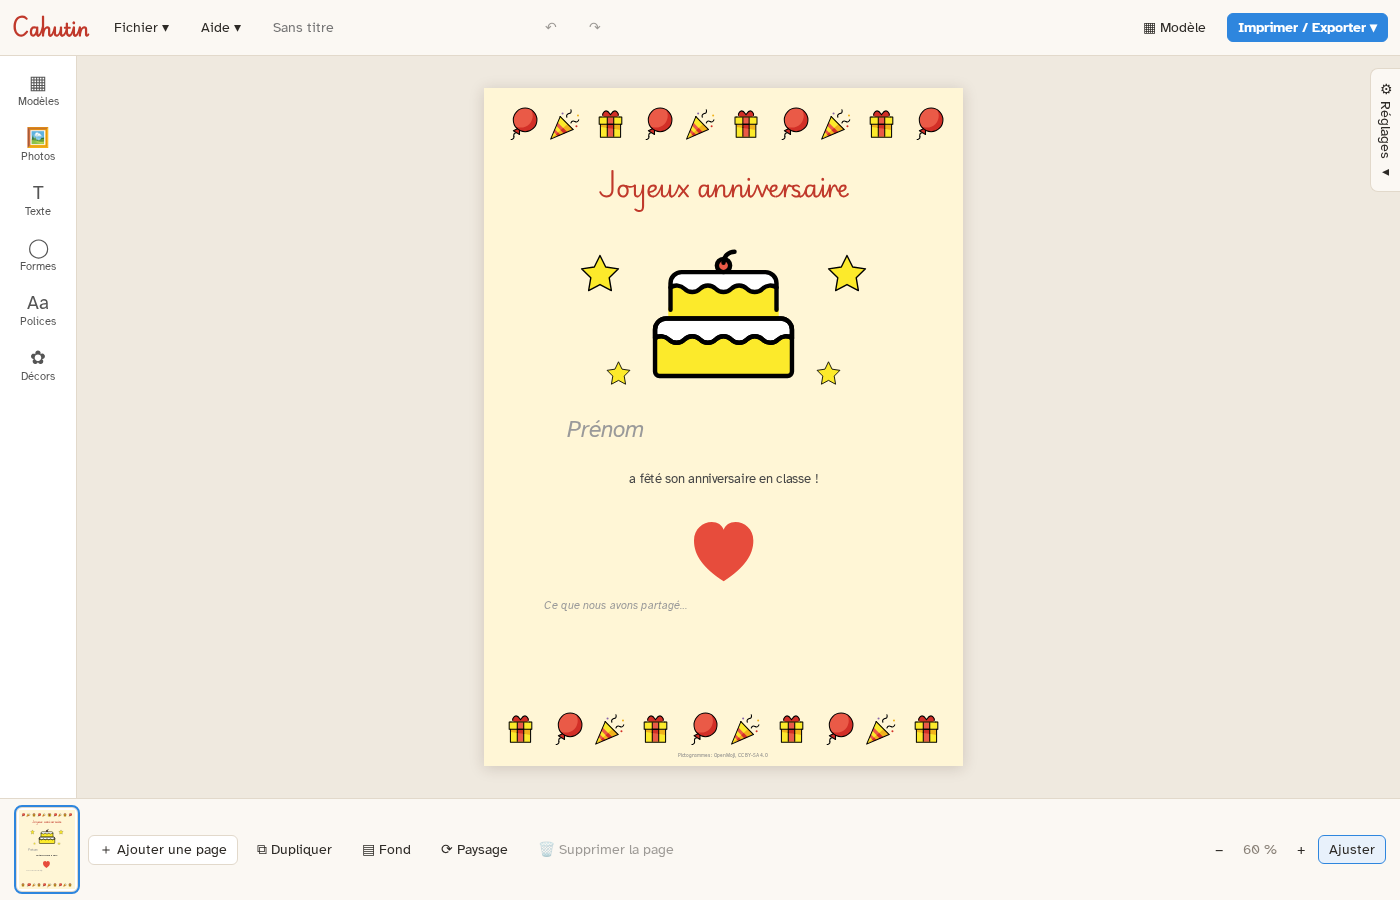
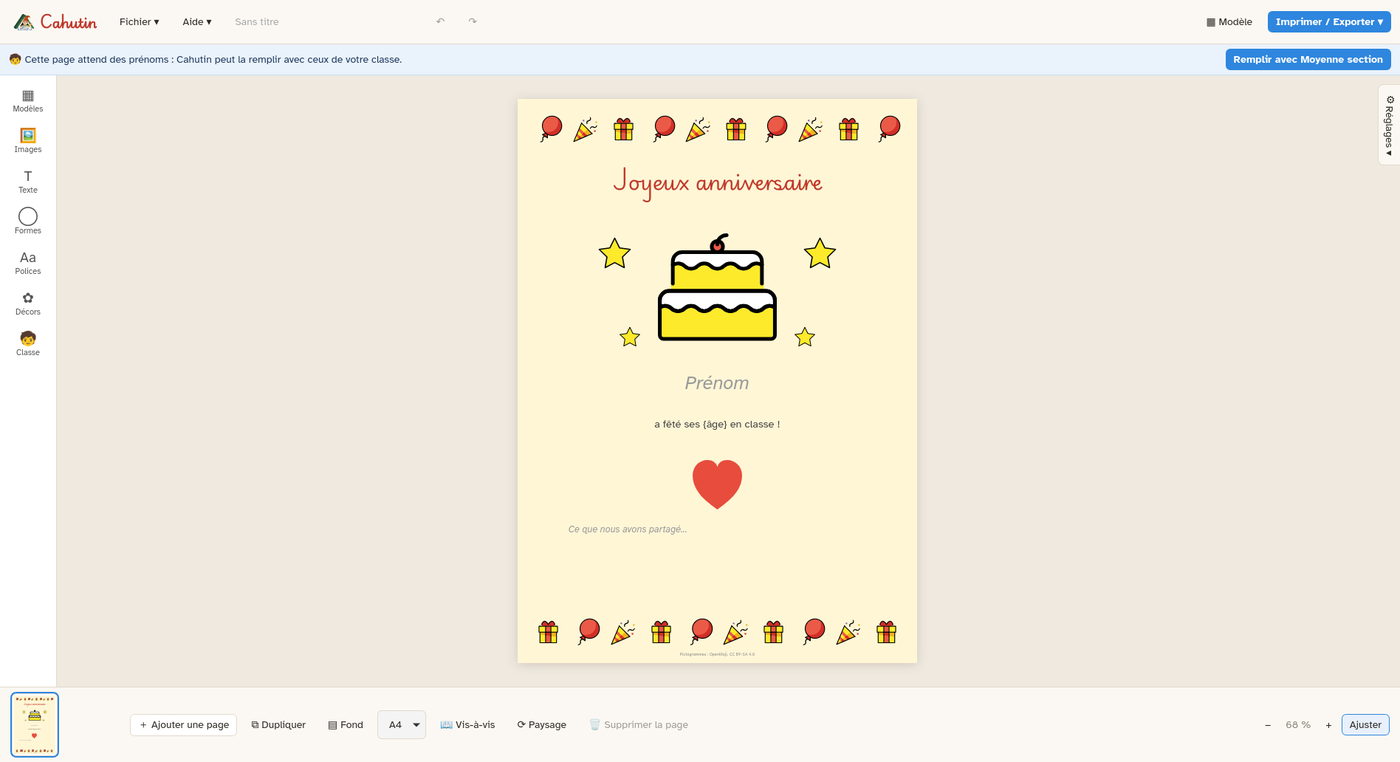
docs: fresh screenshots, Microsoft Store first, graphisme and nested groups
README and site screenshots show the Images drawer. The site puts the
Microsoft Store badge, the recommended way on Windows 11, before the direct
download, and mentions graphisme sheets, mazes and symmetry. The README
mentions groups inside groups and removing a photo.

diff --git a/site/index.html b/site/index.html
@@ -38,6 +38,8 @@
   <p class="chapo">Vos pages de classe, simples et hors ligne. On part d'un modèle, on glisse ses photos, on écrit : la page est prête à imprimer.</p>
 
   <div class="telecharger" id="telecharger">
+    <p class="store"><a href="https://apps.microsoft.com/detail/9P1VD877KD19?mode=direct"><img src="img/microsoft-store.svg" width="161" height="44" alt="Télécharger Cahutin à partir de Microsoft Store"></a><span><b>Recommandé sous Windows 11</b> : installation en un clic, mises à jour automatiques.</span></p>
+    <p class="ou">Ou téléchargez directement l'installeur, pour Windows ou Linux :</p>
     <a class="bouton" id="dl-bouton" href="https://github.com/e-ban/cahutin/releases/latest">Télécharger Cahutin</a>
     <div class="choix">
       <label>Système
@@ -52,7 +54,6 @@
       </label>
     </div>
     <p class="sous-bouton">Gratuit, libre, sans compte ni inscription. <a href="https://github.com/e-ban/cahutin/releases">Toutes les versions</a> · <a href="signature.html">Vérifier un téléchargement</a></p>
-    <p class="store"><a href="https://apps.microsoft.com/detail/9P1VD877KD19?mode=direct"><img src="img/microsoft-store.svg" width="161" height="44" alt="Télécharger Cahutin à partir de Microsoft Store"></a><span>Windows : installation en un clic, mises à jour automatiques.</span></p>
   </div>
 
   <figure class="colle">
@@ -89,7 +90,7 @@
     <li><span class="pastille" aria-hidden="true">🧒</span><h3>Remplir avec sa classe</h3>On colle la liste des prénoms une fois, ou on l'importe d'un tableur ou d'ONDE. Cahutin remplit ensuite une planche d'étiquettes (prénom en capitales, en script et en cursive), une page par enfant avec son âge, ou l'affiche des anniversaires.</li>
     <li><span class="pastille" aria-hidden="true">📷</span><h3>Poser ses photos</h3>On importe un dossier entier, on glisse chaque photo dans sa case, on la recadre d'un double-clic. La photothèque de la classe garde les photos de l'année, rangées par jour, par enfant et par activité, et signale les enfants peu photographiés. Pour un enfant sans autorisation photo, on floute son visage d'un clic.</li>
     <li><span class="pastille" aria-hidden="true">✏</span><h3>Écrire avec des polices d'école</h3>Cursive (Playwrite FR Moderne), écriture lisible pour les débutants (Andika), police pour les élèves dyslexiques (OpenDyslexic). Lettres à repasser, lignes Seyès dans un cadre, styles Titre, Consigne, Prénom.</li>
-    <li><span class="pastille" aria-hidden="true">🎨</span><h3>Décorer et organiser</h3>Plus de 2 000 images à chercher en français, dont les rituels, le matériel et les émotions, les personnes dans toutes les couleurs de peau, et votre collection de dessins, gardée pour tous vos documents ; cadres, frises, fonds Seyès ou kraft. Des tableaux, un bloc répété sur toute la page, des repères de découpe.</li>
+    <li><span class="pastille" aria-hidden="true">🎨</span><h3>Décorer, tracer, organiser</h3>Plus de 2 000 images à chercher en français, dont les rituels, le matériel et les émotions, les personnes dans toutes les couleurs de peau, et votre collection de dessins, gardée pour tous vos documents ; cadres, frises, fonds Seyès ou kraft. Des fiches de graphisme à repasser, des labyrinthes, des dessins à compléter par symétrie. Des tableaux, un bloc répété sur toute la page, des repères de découpe.</li>
     <li><span class="pastille" aria-hidden="true">🖨</span><h3>Imprimer ou partager</h3>A5, A4 ou A3, une affiche A3 sur deux A4, des cartes en recto-verso ; PDF, ou fichier pour LibreOffice où tout reste modifiable. On peut aussi reprendre une fiche Word, PDF ou LibreOffice existante : textes, photos, tableaux et tracés à leur place.</li>
   </ul>
   <figure class="colle petite">

diff --git a/site/style.css b/site/style.css
@@ -105,7 +105,9 @@ header .chapo { font-size: 23px; line-height: 40px; margin: calc(3 * var(--u)) 0
 .bouton:hover { background: var(--bleu-fonce); }
 .bouton:active { transform: translateY(2px); box-shadow: 0 1px 0 var(--bleu-fonce); }
 .sous-bouton { color: var(--encre-douce); font-size: 17px; margin: var(--u) 0 0; }
-.store { display: flex; flex-wrap: wrap; align-items: center; justify-content: center; gap: var(--u) calc(2 * var(--u)); margin: calc(3 * var(--u)) 0 0; color: var(--encre-douce); font-size: 16px; }
+.store { display: flex; flex-wrap: wrap; align-items: center; justify-content: center; gap: var(--u) calc(2 * var(--u)); margin: 0; color: var(--encre-douce); font-size: 17px; }
+.store b { color: var(--encre); }
+.telecharger .ou { margin: calc(2 * var(--u)) 0 0; color: var(--encre-douce); font-size: 16px; }
 .store img { display: block; height: 52px; width: auto; }
 
 /* La capture de l'application, scotchée sur la page du cahier. */

diff --git a/README.md b/README.md
@@ -50,7 +50,7 @@ Au premier lancement, Cahutin demande s'il doit vous prévenir quand une nouvell
 - **Pages** A5, A4 ou A3, en portrait ou en paysage (le contenu suit le format), plusieurs pages par document, vue en vis-à-vis comme un cahier ouvert.
 - **Modèles** fournis (Grille de photos, Récit, Page à compléter, Étiquettes, Étiquettes photo, Étiquettes 3 écritures, Photos et textes, Photos légendées, Affiche paysage), modèles pour la classe (Memory et Loto des prénoms, Lettres mobiles, J'écris mon prénom, Tableau des présences, Affiche des anniversaires) et modèles personnels (« Partir d'un modèle » > « Créer un modèle ») à partager entre collègues.
 - **Exemples** à découvrir depuis l'écran d'accueil : Sortie à la ferme, Joyeux anniversaire, La météo de la semaine, J'écris mon prénom, Les saisons, Notre semaine (emploi du temps), Le loto des émotions, J'écris les jours, Les règles de la classe (A3), Mes cinq sens, Étiquettes de porte-manteau.
-- **Photos** : import d'un dossier entier, photothèque du document, recadrage, miroir, coins arrondis, bordure, ombre, légende, flou des visages (repérés sur l'ordinateur ou tracés à la main) pour les enfants sans autorisation photo.
+- **Photos** : import d'un dossier entier, photos du document (tiroir Images, une croix pour en retirer une), recadrage, miroir, coins arrondis, bordure, ombre, légende, flou des visages (repérés sur l'ordinateur ou tracés à la main) pour les enfants sans autorisation photo.
 - **Textes** : gras, italique, souligné, couleurs, alignement ; polices lisibles pour l'école fournies (Andika, Atkinson Hyperlegible, OpenDyslexic, Playwrite FR Moderne pour la cursive), polices ajoutées et polices installées sur l'ordinateur ; lettres à repasser ou creuses, lignes d'écriture dans un cadre (Seyès, lignes, petits carreaux), styles de texte nommés (Titre, Consigne, Prénom, les vôtres) qui se modifient d'un coup.
 - **Classe** : liste des élèves (photo avec autorisation, symbole, niveau, groupe, date de naissance), collée ou importée d'un tableur ou d'un export ONDE (.csv), gardée sur l'ordinateur, avec la photothèque de l'année : photos rangées par jour, élèves présents et activités cochés d'un clic (photo en grand, « Marquer un enfant »), enfants peu photographiés signalés. Réglages d'un coup pour une grande classe (autorisation photo, un symbole par enfant). Génération d'une page par élève, d'une planche d'étiquettes remplie ou d'une affiche pour toute la classe ; champs {prénom}, {nom}, {groupe}, {âge}, {anniversaire}, lettres mobiles.
 - **Tableaux** : cases avec texte, pictogramme ou photo, lignes et colonnes à ajouter ou retirer, cases fusionnées, traits réglables.
@@ -58,7 +58,7 @@ Au premier lancement, Cahutin demande s'il doit vous prévenir quand une nouvell
 - **Images** : un seul tiroir pour les photos du document (et la photothèque de la classe), la Collection (les dessins et illustrations de l'enseignant, gardés pour tous ses documents ; une image posée s'y ajoute d'un clic ; une page « Ma collection », depuis l'accueil, les range par thème, les renomme et remet les images retirées) et plus de 2 000 pictogrammes OpenMoji avec recherche en français (catégories Rituels, Matériel, Émotions, Corps et soins pour la classe), personnes et mains dans cinq couleurs de peau, images à colorier (contour noir). Une recherche cherche à la fois dans la Collection et les pictogrammes.
 - **Décors** : cadres de page et frises (pictogrammes ou images de la collection, taille et espacement réglables, même après coup), dont les images se choisissent dans une fenêtre.
 - **Fonds de page** : couleur, Seyès, petits carreaux, lignes, pointillés, papier kraft.
-- **Groupes**, sélection au cadre, alignement, répétition d'un bloc en grille, repères de découpe, verrouillage, annulation.
+- **Groupes**, y compris des groupes dans des groupes (« Dissocier » n'enlève qu'un niveau, un double-clic entre dans un groupe), sélection au cadre, alignement, répétition d'un bloc en grille, repères de découpe, verrouillage, annulation.
 - **Import** : pages d'un autre carnet, et fiches Word (.docx, .doc), LibreOffice (.odt, .odg), PDF ou Publisher (.pub) reprises en textes, photos et formes modifiables ; les tracés d'un PDF (graphisme, cadres) deviennent des formes modifiables (une illustration faite de très nombreux tracés, une image fixe), une police absente est remplacée par une police de même largeur. Un fichier LibreOffice Draw (dont ceux qu'exporte Cahutin) se relit tel quel ; pour les autres formats, LibreOffice doit être installé sur le poste.
 - **Aide** : visite guidée au premier lancement, astuces par thème et bulles d'aide discrètes (menu Aide).
 - **Sorties** : impression (chaque page sur une feuille de son format, affiche A3 en deux feuilles A4, cartes en recto-verso), PDF, et export **ODG** pour LibreOffice Draw, où chaque texte, photo et forme reste modifiable et les polices voyagent avec le fichier.
